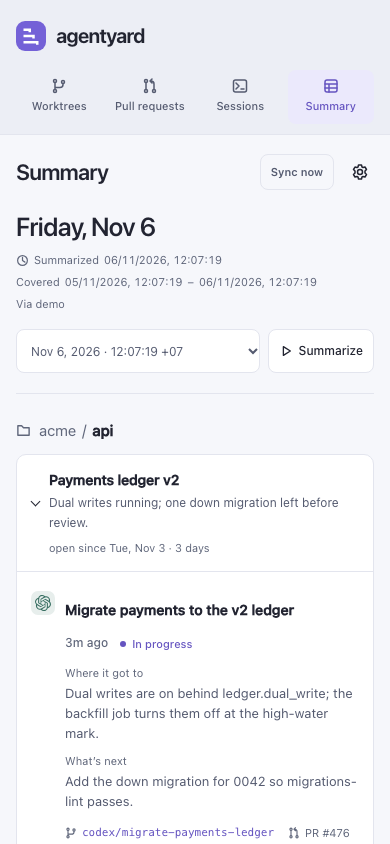
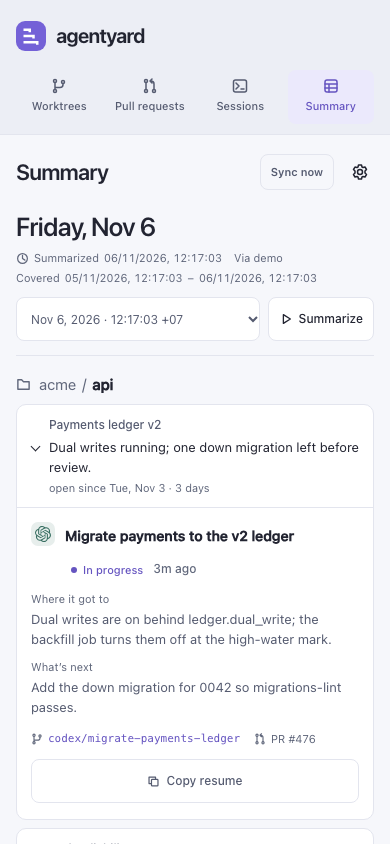
fix(summary): put what needs you first on the Summary page
The state sits beside the session title, and a session waiting on you
or blocked shows that decision first, in stronger text. Topic names
step back so sessions stand out, and on phones the notes use the full
card width and the run header takes less room.

Claude-Session: https://claude.ai/code/session_01NtvhFvhWywmqE7ZEmKxLJy

diff --git a/page.html b/page.html
@@ -1124,16 +1124,16 @@ body[data-tab="prs"] .collection-views > .button { margin-left:auto; font-size:1
 .summary-topic > summary { display:grid; grid-template-columns:8px minmax(0,1fr) auto; gap:12px; width:100%; padding:14px 18px; color:var(--text-1); }
 .summary-topic > summary:hover { background:var(--bg-hover); }
 .summary-topic > summary:focus-visible { outline-offset:-3px; border-radius:var(--radius-control); }
-.summary-topic-name { display:block; font-size:14px; line-height:22px; font-weight:550; }
-.summary-topic-status { display:block; margin-top:2px; color:var(--text-2); font-size:12px; line-height:20px; }
+.summary-topic-name { display:block; font-size:12px; line-height:20px; font-weight:500; color:var(--text-2); }
+.summary-topic-status { display:block; margin-top:2px; color:var(--text-1); font-size:13px; line-height:20px; }
 .summary-topic-note { font-size:11px; line-height:18px; font-weight:400; color:var(--text-3); white-space:nowrap; }
 .summary-topic-note.badge { font-size:10px; min-height:20px; padding:1px 6px; color:var(--state-ink); }
 .summary-topic[open] > summary { border-bottom:1px solid var(--line); }
 .summary-session { display:grid; grid-template-columns:30px minmax(0,1fr); gap:12px; padding:16px 18px; }
 .summary-session + .summary-session { border-top:1px solid var(--line); }
 .summary-session-body { min-width:0; }
-.summary-session-header { display:flex; align-items:baseline; flex-wrap:wrap; justify-content:space-between; gap:6px 16px; }
-.summary-session-state { display:inline-flex; align-items:baseline; gap:12px; }
+.summary-session-header { display:flex; align-items:baseline; flex-wrap:wrap; gap:2px 12px; }
+.summary-session-state { display:inline-flex; align-items:baseline; gap:10px; }
 .summary-session-header h4 { min-width:0; font-size:13px; line-height:20px; font-weight:550; letter-spacing:0; }
 .summary-status { display:inline-flex; align-items:center; gap:6px; color:var(--state-ink,var(--text-3)); font-size:11px; line-height:18px; font-weight:500; white-space:nowrap; }
 .summary-status-dot { width:6px; height:6px; border-radius:var(--radius-pill); background:currentColor; flex-shrink:0; }
@@ -1141,6 +1141,8 @@ body[data-tab="prs"] .collection-views > .button { margin-left:auto; font-size:1
 .summary-facts > div { display:grid; grid-template-columns:105px minmax(0,1fr); gap:12px; }
 .summary-facts dt { color:var(--text-3); }
 .summary-facts dd { margin:0; overflow-wrap:anywhere; }
+.summary-facts .summary-fact-decision dt { color:var(--text-2); }
+.summary-facts .summary-fact-decision dd { color:var(--text-1); font-weight:550; }
 .summary-session-footer { display:flex; align-items:center; justify-content:space-between; gap:8px 16px; margin-top:8px; }
 .summary-links { display:flex; align-items:center; flex-wrap:wrap; gap:2px 14px; min-width:0; }
 .summary-links a { display:inline-flex; align-items:center; gap:5px; min-height:28px; color:var(--text-3); font-size:11px; line-height:18px; max-width:100%; overflow-wrap:anywhere; }
@@ -1179,24 +1181,29 @@ body[data-tab="prs"] .collection-views > .button { margin-left:auto; font-size:1
  .sidebar nav { grid-template-columns:repeat(4,minmax(0,1fr)); }
  .sidebar nav a { height:auto; min-height:54px; flex-direction:column; gap:2px; font-size:11px; }
  .sidebar nav .tab-count { display:none; }
- .summary-run { flex-direction:column; gap:16px; padding-top:0; padding-bottom:20px; }
+ .summary-run { flex-direction:column; gap:10px; padding-top:0; padding-bottom:14px; }
  .summary-run h2 { font-size:26px; line-height:34px; }
- .summary-run-meta { gap:4px 12px; }
- .summary-run-meta .summary-window { flex-basis:100%; }
+ .summary-run-meta { gap:2px 12px; margin-top:6px; }
+ .summary-run-meta .summary-window { flex-basis:100%; order:2; }
  .summary-run-actions { display:flex; gap:8px; width:100%; padding-top:0; }
  .summary-run-actions form { flex:1; min-width:0; }
  .summary-run-picker { width:100%; max-width:100%; height:44px; font-size:12px; }
  .summary-run-button { min-height:44px; padding-inline:10px; }
- .summary-project { margin-top:24px; }
- .summary-topic > summary { grid-template-columns:8px minmax(0,1fr); gap:6px 10px; padding:14px; }
+ .summary-project { margin-top:16px; }
+ .summary-project-header { margin-bottom:6px; }
+ .summary-topic { margin-top:8px; }
+ .summary-topic > summary { grid-template-columns:8px minmax(0,1fr); gap:2px 10px; padding:10px 14px; }
  .summary-topic-note { grid-column:2; justify-self:start; white-space:normal; }
- .summary-session { padding:16px 14px; grid-template-columns:24px minmax(0,1fr); gap:10px; }
+ .summary-session { padding:6px 14px 16px; grid-template-columns:24px minmax(0,1fr); gap:0 10px; }
+ .summary-session-body { display:contents; }
+ .summary-session-body > :not(.summary-session-header) { grid-column:1 / -1; }
+ .summary-session > .agent-identity { margin-top:8px; }
  .summary-session > .agent-identity .agent-mark { width:24px; height:24px; border-radius:7px; }
  .summary-session > .agent-identity .agent-mark svg { width:16px; height:16px; }
- .summary-session-header { display:block; }
+ .summary-session-header { display:block; min-width:0; }
+ .summary-session-state { margin-left:6px; }
  .summary-session-header h4 { font-size:14px; }
  .summary-session-header .session-title { display:inline-block; padding-block:10px; font-size:14px; }
- .summary-status { margin-top:2px; }
  .summary-facts { margin-top:10px; gap:8px; }
  .summary-facts > div { display:block; }
  .summary-facts dt { font-size:11px; }
@@ -1421,12 +1428,13 @@ body[data-tab="prs"] .collection-views > .button { margin-left:auto; font-size:1
 {{define "session-row"}}<tr class="session-row" {{template "session-data" .}}><td>{{template "session-tool" .}}</td><td><div class="cell-stack">{{template "session-title" .}}<div class="session-labels">{{template "session-kind" .Kind}}{{template "session-pr" .}}</div>{{template "session-preview" .}}</div></td><td>{{template "session-folder" .}}</td><td>{{template "session-activity" .}}</td><td class="n">{{fsize .Size}}</td><td>{{template "copy" (dict "Command" .ResumeCmd "Resume" true)}}{{template "resume-noscript" .}}</td></tr>{{end}}
 {{define "session-card"}}<article class="card session-row" {{template "session-data" .}}><div>{{template "session-title" .}}</div><div class="session-card-meta">{{template "session-tool" .}}{{template "session-kind" .Kind}}{{template "session-pr" .}}</div>{{template "session-preview" .}}<div>{{template "session-folder" .}}</div><dl class="metric-grid"><div><dt>Last active</dt><dd>{{template "session-activity" .}}</dd></div><div><dt>Size</dt><dd class="numeric">{{fsize .Size}}</dd></div></dl>{{template "copy" (dict "Command" .ResumeCmd "Resume" true)}}{{template "resume-noscript" .}}</article>{{end}}
 
-{{define "summary-facts"}}{{with .}}<dl class="summary-facts">{{if .Progress}}<div><dt>Where it got to</dt><dd>{{.Progress}}</dd></div>{{end}}{{if .WaitsOn}}<div><dt>{{if eq .State "blocked"}}Blocked on{{else}}Waiting on you{{end}}</dt><dd>{{.WaitsOn}}</dd></div>{{end}}{{if .Next}}<div><dt>What’s next</dt><dd>{{.Next}}</dd></div>{{end}}</dl>{{end}}{{end}}
+{{define "summary-decision"}}<div class="summary-fact-decision"><dt>{{if eq .State "blocked"}}Blocked on{{else}}Waiting on you{{end}}</dt><dd>{{.WaitsOn}}</dd></div>{{end}}
+{{define "summary-facts"}}{{with .}}<dl class="summary-facts">{{if .WaitsOn}}{{if or (eq .State "waiting_on_you") (eq .State "blocked")}}{{template "summary-decision" .}}{{end}}{{end}}{{if .Progress}}<div><dt>Where it got to</dt><dd>{{.Progress}}</dd></div>{{end}}{{if and .WaitsOn (ne .State "waiting_on_you") (ne .State "blocked")}}{{template "summary-decision" .}}{{end}}{{if .Next}}<div><dt>What’s next</dt><dd>{{.Next}}</dd></div>{{end}}</dl>{{end}}{{end}}
 {{define "summary-state"}}{{with summarySessionStatus .}}<span class="summary-status {{.Tone}}"><span class="summary-status-dot" aria-hidden="true"></span>{{.Label}}</span>{{end}}{{end}}
 {{define "summary-agent"}}<span class="agent-identity" title="{{template "tool-name" .Tool}}">{{template "tool-icon" .Tool}}<span class="sr-only">{{template "tool-name" .Tool}}</span></span>{{end}}
 {{define "summary-session"}}<article class="summary-session session-row" data-key="{{.Tool}}/{{.ID}}" data-tool="{{.Tool}}" data-id="{{.ID}}" data-title="{{.Title}}">
 {{template "summary-agent" .}}<div class="summary-session-body">
-<header class="summary-session-header"><h4><button type="button" class="session-title" data-open-session>{{.Title}}</button></h4><span class="summary-session-state">{{if not .Touched.IsZero}}<span class="meta">{{template "time" .Touched}}</span>{{end}}{{template "summary-state" .}}</span></header>
+<header class="summary-session-header"><h4><button type="button" class="session-title" data-open-session>{{.Title}}</button></h4><span class="summary-session-state">{{template "summary-state" .}}{{if not .Touched.IsZero}}<span class="meta">{{template "time" .Touched}}</span>{{end}}</span></header>
 {{if .NotSummarized}}<p class="meta">The provider response could not be read. Summarize again to retry, or resume this session.</p>
 {{else}}{{template "summary-facts" .Note}}{{end}}
 {{if .Subagents}}<details class="summary-subagents"><summary>{{counted (len .Subagents) "subagent" "subagents"}}</summary><ul>{{range .Subagents}}{{template "summary-subagent" .}}{{end}}</ul></details>{{end}}
@@ -1441,7 +1449,7 @@ body[data-tab="prs"] .collection-views > .button { margin-left:auto; font-size:1
 {{else if not .Summary.Enabled}}<div class="state-panel summary-empty">{{template "icon" "ledger"}}<div><h2>Turn on session summaries.</h2><p>Run <code>agentyard install</code> and say yes to morning summaries. Nothing is sent to a model until you turn summaries on.</p><div class="command-line"><code>agentyard install</code>{{template "copy" (dict "Command" "agentyard install")}}</div></div></div>
 {{else}}{{with .Summary}}
 <header class="summary-run"><div class="summary-run-heading"><h2>{{with .Run}}<time datetime="{{.At.Format "2006-01-02T15:04:05.999999999Z07:00"}}">{{.At.Format "Monday, Jan 2"}}</time>{{else}}Your first summary{{end}}</h2>
-{{with .Run}}<div class="summary-run-meta"><span>{{template "icon" "clock"}}{{if .Error}}Attempted{{else}}Summarized{{end}} {{template "exact-time" .At}}</span>{{if not .Window.Start.IsZero}}<span class="summary-window">Covered {{template "exact-time" .Window.Start}} – {{template "exact-time" .Window.End}}</span>{{end}}<span>Via {{.Provider}}</span></div>{{end}}</div>
+{{with .Run}}<div class="summary-run-meta"><span>{{template "icon" "clock"}}{{if .Error}}Attempted{{else}}Summarized{{end}} {{template "exact-time" .At}}</span>{{if not .Window.Start.IsZero}}<span class="summary-window">Covered {{template "exact-time" .Window.Start}} – {{template "exact-time" .Window.End}}</span>{{end}}<span class="summary-provider">Via {{.Provider}}</span></div>{{end}}</div>
 <div class="summary-run-actions">{{if .History}}<form action="/summary" method="get"><label><span class="sr-only">Saved summary run</span><select class="summary-run-picker" name="at" aria-label="Saved summary run">{{range .History}}<option value="{{.At.Format "2006-01-02T15:04:05.999999999Z07:00"}}" {{if $.Summary.Run}}{{if .At.Equal $.Summary.Run.At}}selected{{end}}{{end}}>{{.At.Format "Jan 2, 2006 · 15:04:05 MST"}}{{if .Error}} · Failed{{end}}</option>{{end}}</select></label><noscript><button class="button" type="submit">Open run</button></noscript></form>{{end}}
 {{if or $.CanRemove .Status.Running}}<button type="button" class="button summary-run-button" id="summarize" aria-busy="{{.Status.Running}}" {{if .Status.Running}}disabled{{end}}>{{template "icon" "play"}}<span>{{if .Status.Running}}Summarizing…{{else}}Summarize{{end}}</span></button>{{end}}</div></header>
 <div id="summary-feedback" class="update-banner summary-notice" role="status" {{if not .Status.Running}}hidden{{end}}>Summarizing the last 24 hours. Your previous summary stays readable.</div>
